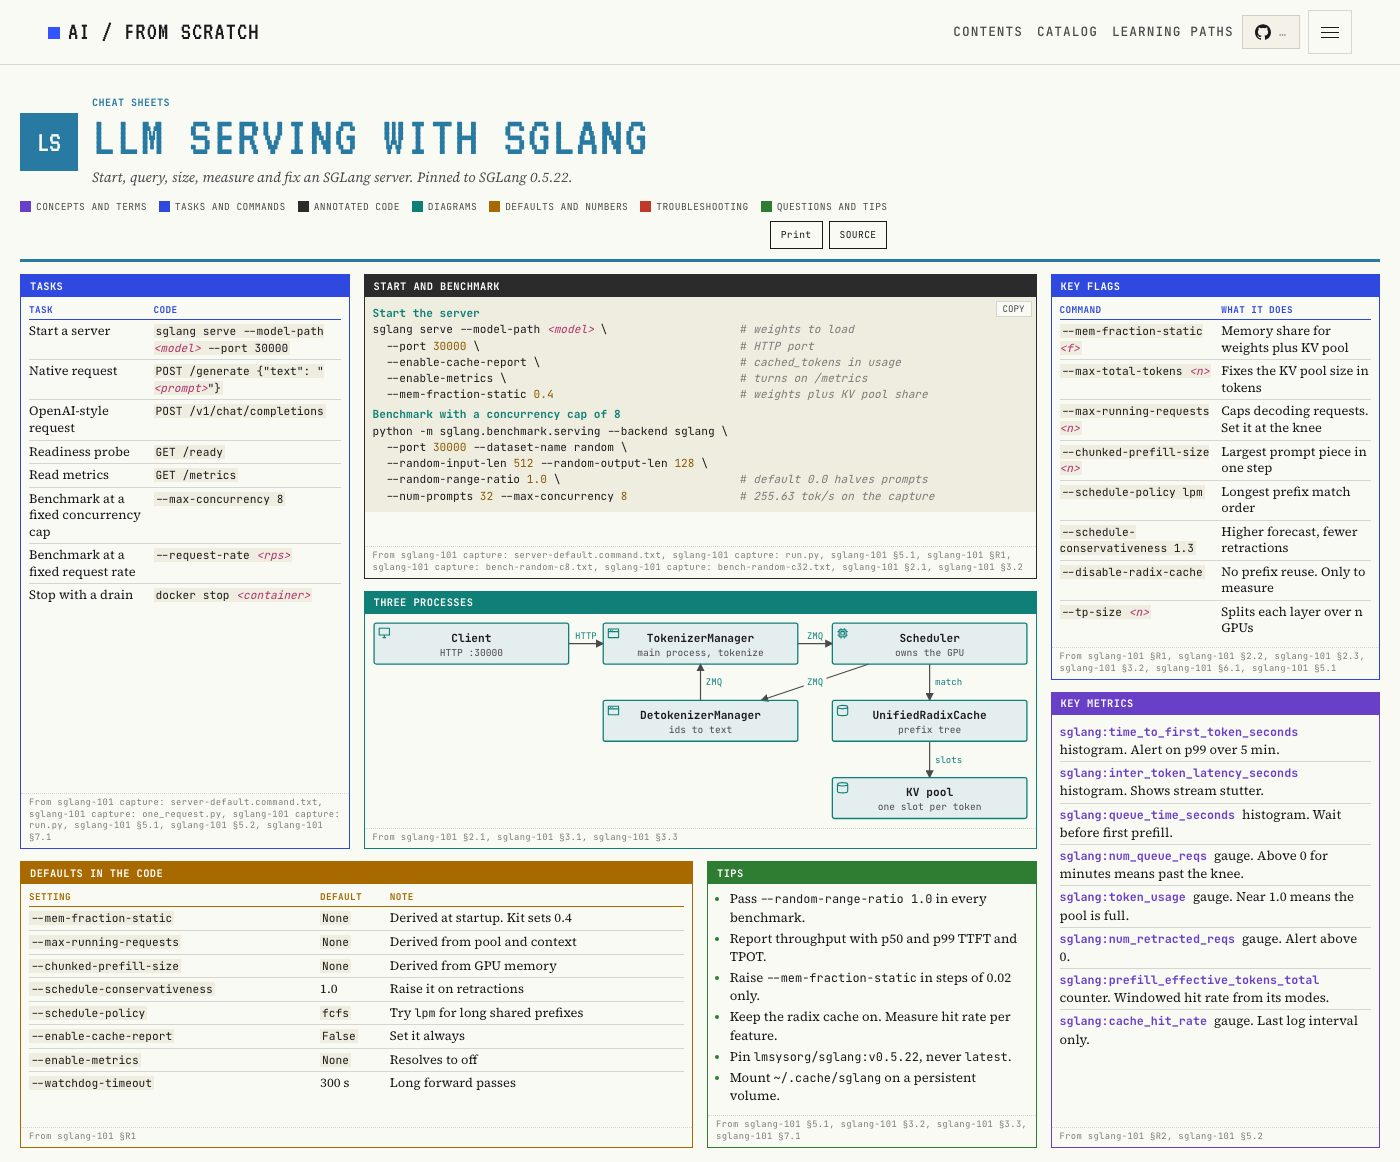
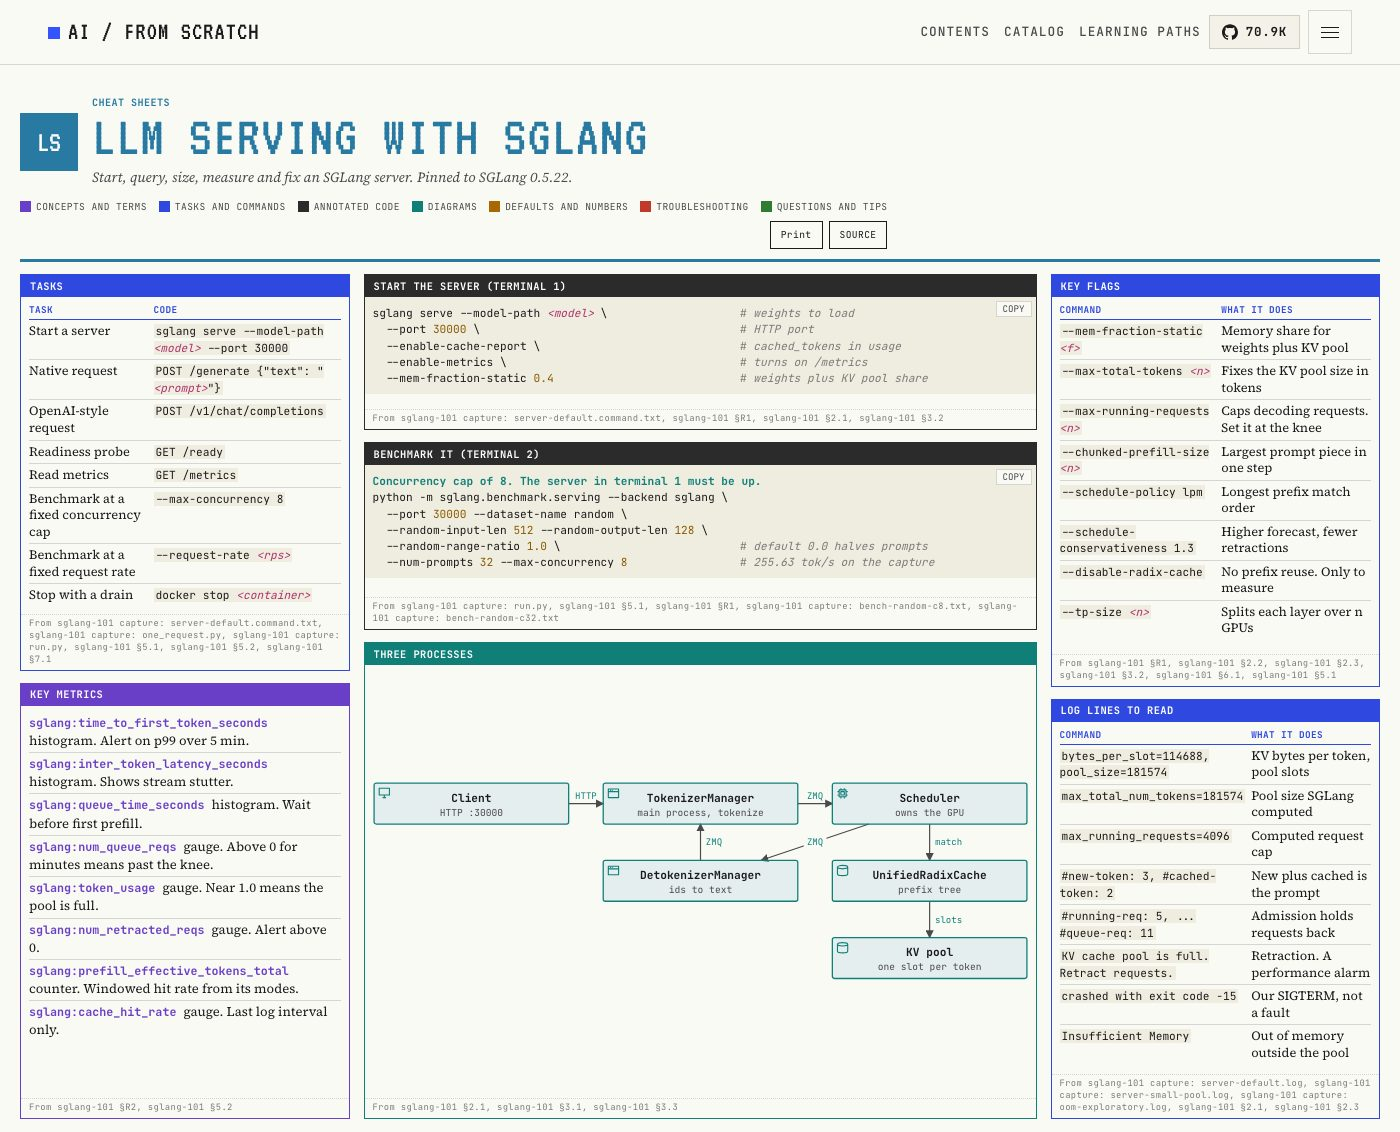
fix(cheatsheets): split the SGLang start block into two terminals
The server runs in the foreground, so one copied script never reached the benchmark. The poster now has "Start the server (terminal 1)" and "Benchmark it (terminal 2)", each with its own Copy button. The poster still prints on 2 pages.

Changed region(s): [[0.0, 0.0618, 1.0, 0.9894], [0.6757, 0.0, 0.9214, 0.0618]]

diff --git a/cheatsheets/sglang-serving.md b/cheatsheets/sglang-serving.md
@@ -21,19 +21,26 @@ from: manuals/sglang-101/capture/out/server-default.command.txt, manuals/sglang-
 | Benchmark at a fixed request rate | `--request-rate <rps>` |
 | Stop with a drain | `docker stop <container>` |
 
-## Start and benchmark
+## Start the server (terminal 1)
 type: annotated-code
 lang: bash
-from: manuals/sglang-101/capture/out/server-default.command.txt, manuals/sglang-101/capture/run.py, manuals/sglang-101/sections/5-1-sglang-benchmark-serving.md, manuals/sglang-101/sections/r-1-flags-and-defaults.md, manuals/sglang-101/capture/out/bench-random-c8.txt, manuals/sglang-101/capture/out/bench-random-c32.txt, manuals/sglang-101/sections/2-1-sglang-serve-and-the-three-processes.md, manuals/sglang-101/sections/3-2-mem-fraction-static-and-startup-sizing.md
+from: manuals/sglang-101/capture/out/server-default.command.txt, manuals/sglang-101/sections/r-1-flags-and-defaults.md, manuals/sglang-101/sections/2-1-sglang-serve-and-the-three-processes.md, manuals/sglang-101/sections/3-2-mem-fraction-static-and-startup-sizing.md
 
 ```bash
-# Start the server
 sglang serve --model-path <model> \  # weights to load
   --port 30000 \  # HTTP port
   --enable-cache-report \  # cached_tokens in usage
   --enable-metrics \  # turns on /metrics
   --mem-fraction-static 0.4  # weights plus KV pool share
-# Benchmark with a concurrency cap of 8
+```
+
+## Benchmark it (terminal 2)
+type: annotated-code
+lang: bash
+from: manuals/sglang-101/capture/run.py, manuals/sglang-101/sections/5-1-sglang-benchmark-serving.md, manuals/sglang-101/sections/r-1-flags-and-defaults.md, manuals/sglang-101/capture/out/bench-random-c8.txt, manuals/sglang-101/capture/out/bench-random-c32.txt
+
+```bash
+# Concurrency cap of 8. The server in terminal 1 must be up.
 python -m sglang.benchmark.serving --backend sglang \
   --port 30000 --dataset-name random \
   --random-input-len 512 --random-output-len 128 \
